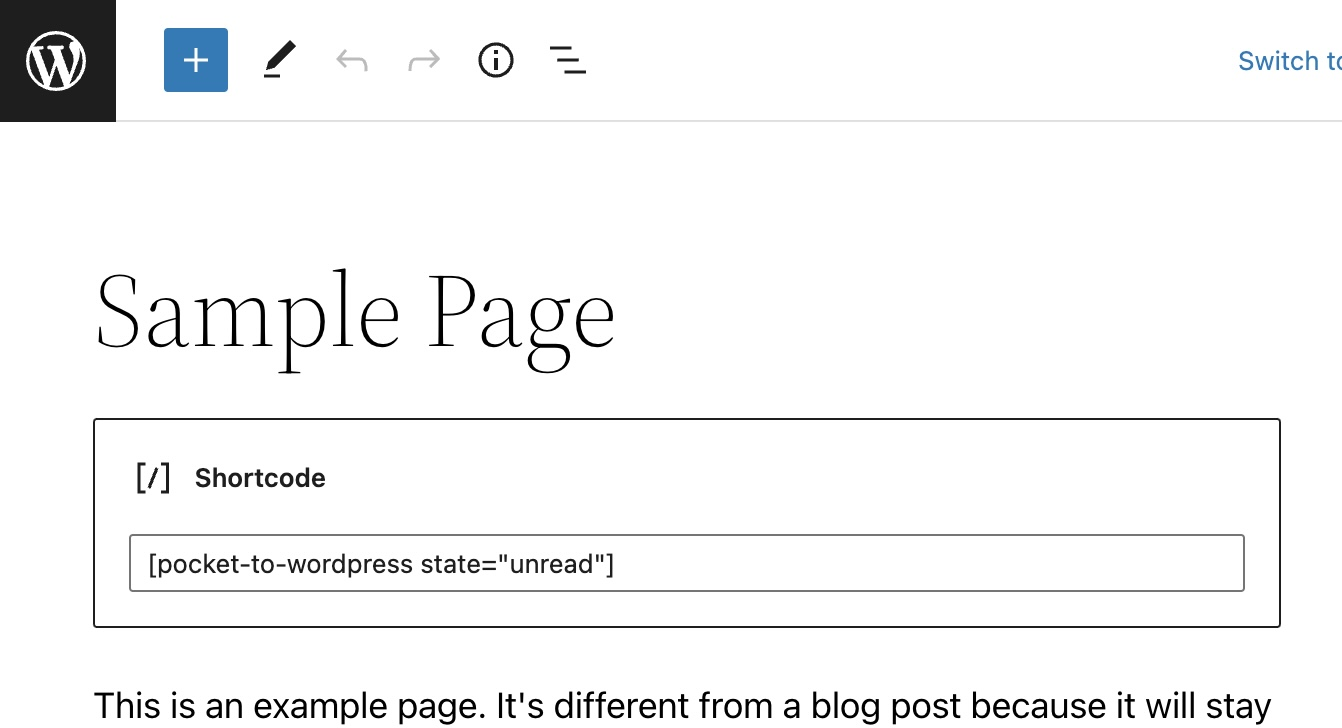
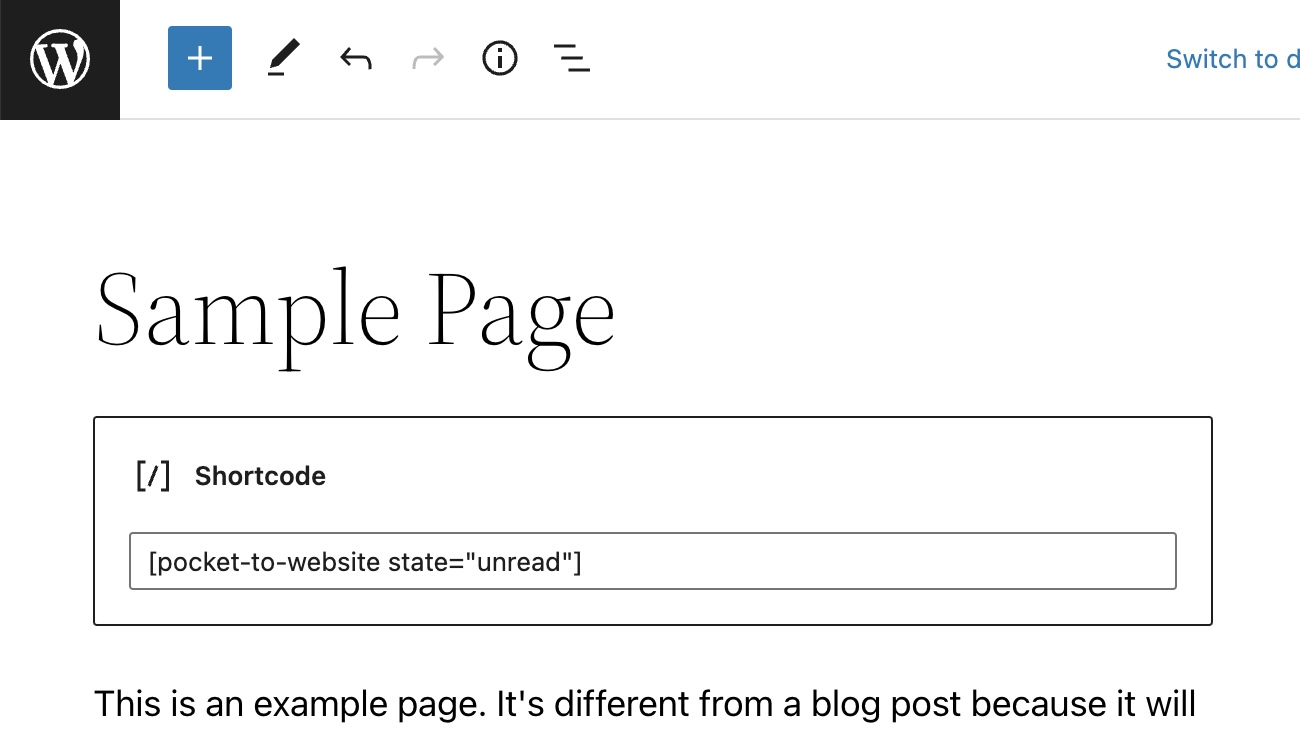
change the plugin name so it doesn't have any mention of WordPress

diff --git a/content/shortcode.php b/content/shortcode.php
@@ -1,114 +1,114 @@
 <style>.shortcode_creator_group ul { padding-left: 10px; }</style>
-<h2><?php _e('How to display a feed on your WordPress site', 'pocket-to-wordpress'); ?></h2>
-<p><?php _e(sprintf('This plugin gives you the possibility to display a list of feed via the use of %1$sshortcodes%2$s.', '<a href="https://wordpress.com/support/shortcodes/" target="_blank">', '</a>'), 'pocket-to-wordpress'); ?><br />
+<h2><?php _e('How to display a feed on your WordPress site', 'pocket-to-website'); ?></h2>
+<p><?php _e(sprintf('This plugin gives you the possibility to display a list of feed via the use of %1$sshortcodes%2$s.', '<a href="https://wordpress.com/support/shortcodes/" target="_blank">', '</a>'), 'pocket-to-website'); ?><br />
     <?php _e('', ''); ?></br />
-    <?php _e('Then paste it wherever you want in your WordPress website.', 'pocket-to-wordpress'); ?></p>
+    <?php _e('Then paste it wherever you want in your WordPress website.', 'pocket-to-website'); ?></p>
 <p><input id="shortcode_display" type="text" value="[pocket-to-wordpress]" style="width: 100%;"></p>
 
 <div class="shortcode_creator">
     <div class="shortcode_creator_group">
-        <p><strong><?php _e('State', 'pocket-to-wordpress'); ?> (<?php _e('filter', 'pocket-to-wordpress'); ?>: state)</strong></p>
+        <p><strong><?php _e('State', 'pocket-to-website'); ?> (<?php _e('filter', 'pocket-to-website'); ?>: state)</strong></p>
         <ul>
             <li>
                 <input type="radio" id="state_unread" name="state" value="unread" />
-                <label for="state_unread"><?php _e('Unread', 'pocket-to-wordpress'); ?></label>
+                <label for="state_unread"><?php _e('Unread', 'pocket-to-website'); ?></label>
             </li>
             <li>
                 <input type="radio" id="state_archive" name="state" value="archive" />
-                <label for="state_archive"><?php _e('Archive', 'pocket-to-wordpress'); ?></label>
+                <label for="state_archive"><?php _e('Archive', 'pocket-to-website'); ?></label>
             </li>
             <li>
                 <input type="radio" id="state_all" name="state" value="all" />
-                <label for="state_all"><?php _e('All', 'pocket-to-wordpress'); ?></label>
+                <label for="state_all"><?php _e('All', 'pocket-to-website'); ?></label>
             </li>
         </ul>
     </div>
 
     <div class="shortcode_creator_group">
-        <p><strong><?php _e('favorite', 'pocket-to-wordpress'); ?> (<?php _e('filter', 'pocket-to-wordpress'); ?>: favorite)</strong></p>
+        <p><strong><?php _e('favorite', 'pocket-to-website'); ?> (<?php _e('filter', 'pocket-to-website'); ?>: favorite)</strong></p>
         <ul>
             <li>
                 <input type="radio" id="favorite_0" name="favorite" value="0" />
-                <label for="favorite_0"><?php _e('Only return un-favorited items', 'pocket-to-wordpress'); ?></label>
+                <label for="favorite_0"><?php _e('Only return un-favorited items', 'pocket-to-website'); ?></label>
             </li>
             <li>
                 <input type="radio" id="favorite_1" name="favorite" value="1" />
-                <label for="favorite_1"><?php _e('Only return favorited items', 'pocket-to-wordpress'); ?></label>
+                <label for="favorite_1"><?php _e('Only return favorited items', 'pocket-to-website'); ?></label>
             </li>
         </ul>
     </div>
 
     <div class="shortcode_creator_group">
-        <p><strong><?php _e('Tag', 'pocket-to-wordpress'); ?> (<?php _e('filter', 'pocket-to-wordpress'); ?>: tag)</strong></p>
+        <p><strong><?php _e('Tag', 'pocket-to-website'); ?> (<?php _e('filter', 'pocket-to-website'); ?>: tag)</strong></p>
         <ul>
             <li>
                 <input type="radio" id="tag_tagged" name="tag"/>
-                <label for="tag_tagged"><?php _e('Only return items tagged with', 'pocket-to-wordpress'); ?> <input type="text" name="tag"></label>
+                <label for="tag_tagged"><?php _e('Only return items tagged with', 'pocket-to-website'); ?> <input type="text" name="tag"></label>
             </li>
             <li>
                 <input type="radio" id="tag_1_untagged" name="tag" value="_untagged_" />
-                <label for="tag_1_untagged"><?php _e('Only return untagged items', 'pocket-to-wordpress'); ?></label>
+                <label for="tag_1_untagged"><?php _e('Only return untagged items', 'pocket-to-website'); ?></label>
             </li>
         </ul>
     </div>
 
     <div class="shortcode_creator_group">
-        <p><strong><?php _e('Content type', 'pocket-to-wordpress'); ?> (<?php _e('filter', 'pocket-to-wordpress'); ?>: contentType)</strong></p>
+        <p><strong><?php _e('Content type', 'pocket-to-website'); ?> (<?php _e('filter', 'pocket-to-website'); ?>: contentType)</strong></p>
         <ul>
             <li>
                 <input type="radio" id="contentType_article" name="contentType" value="article" />
-                <label for="contentType_article"><?php _e('Only return articles', 'pocket-to-wordpress'); ?></label>
+                <label for="contentType_article"><?php _e('Only return articles', 'pocket-to-website'); ?></label>
             </li>
             <li>
                 <input type="radio" id="contentType_video" name="contentType" value="video" />
-                <label for="contentType_video"><?php _e('Only return videos or articles with embedded videos', 'pocket-to-wordpress'); ?></label>
+                <label for="contentType_video"><?php _e('Only return videos or articles with embedded videos', 'pocket-to-website'); ?></label>
             </li>
             <li>
                 <input type="radio" id="contentType_image" name="contentType" value="image" />
-                <label for="contentType_image"><?php _e('Only return images', 'pocket-to-wordpress'); ?></label>
+                <label for="contentType_image"><?php _e('Only return images', 'pocket-to-website'); ?></label>
             </li>
         </ul>
     </div>
 
     <div class="shortcode_creator_group">
-        <p><strong><?php _e('Sort', 'pocket-to-wordpress'); ?> (<?php _e('filter', 'pocket-to-wordpress'); ?>: sort)</strong></p>
+        <p><strong><?php _e('Sort', 'pocket-to-website'); ?> (<?php _e('filter', 'pocket-to-website'); ?>: sort)</strong></p>
         <ul>
             <li>
                 <input type="radio" id="sort_newest" name="sort" value="newest" />
-                <label for="sort_newest"><?php _e('Return items in order of newest to oldest', 'pocket-to-wordpress'); ?></label>
+                <label for="sort_newest"><?php _e('Return items in order of newest to oldest', 'pocket-to-website'); ?></label>
             </li>
             <li>
                 <input type="radio" id="sort_oldest" name="sort" value="oldest" />
-                <label for="sort_oldest"><?php _e('Return items in order of oldest to newest', 'pocket-to-wordpress'); ?></label>
+                <label for="sort_oldest"><?php _e('Return items in order of oldest to newest', 'pocket-to-website'); ?></label>
             </li>
             <li>
                 <input type="radio" id="sort_title" name="sort" value="title" />
-                <label for="sort_title"><?php _e('Return items in order of title alphabetically', 'pocket-to-wordpress'); ?></label>
+                <label for="sort_title"><?php _e('Return items in order of title alphabetically', 'pocket-to-website'); ?></label>
             </li>
             <li>
                 <input type="radio" id="sort_site" name="sort" value="site" />
-                <label for="sort_site"><?php _e('Return items in order of url alphabetically', 'pocket-to-wordpress'); ?></label>
+                <label for="sort_site"><?php _e('Return items in order of url alphabetically', 'pocket-to-website'); ?></label>
             </li>
         </ul>
     </div>
 
     <div class="shortcode_creator_group">
-        <p><strong><?php _e('Search', 'pocket-to-wordpress'); ?> (<?php _e('filter', 'pocket-to-wordpress'); ?>: search)</strong><br /><?php _e('Only return items whose title or url contain the search string', 'pocket-to-wordpress'); ?></p>
+        <p><strong><?php _e('Search', 'pocket-to-website'); ?> (<?php _e('filter', 'pocket-to-website'); ?>: search)</strong><br /><?php _e('Only return items whose title or url contain the search string', 'pocket-to-website'); ?></p>
         <input type="text" name="search">
     </div>
 
     <div class="shortcode_creator_group">
-        <p><strong><?php _e('Domain', 'pocket-to-wordpress'); ?> (<?php _e('filter', 'pocket-to-wordpress'); ?>: domain)</strong><br /><?php _e('Only return items from a particular domain', 'pocket-to-wordpress'); ?></p>
+        <p><strong><?php _e('Domain', 'pocket-to-website'); ?> (<?php _e('filter', 'pocket-to-website'); ?>: domain)</strong><br /><?php _e('Only return items from a particular domain', 'pocket-to-website'); ?></p>
         <input type="text" name="domain">
     </div>
 
     <div class="shortcode_creator_group">
-        <p><strong><?php _e('Count', 'pocket-to-wordpress'); ?> (<?php _e('filter', 'pocket-to-wordpress'); ?>: count)</strong><br /><?php _e('Only return count number of items', 'pocket-to-wordpress'); ?></p>
+        <p><strong><?php _e('Count', 'pocket-to-website'); ?> (<?php _e('filter', 'pocket-to-website'); ?>: count)</strong><br /><?php _e('Only return count number of items', 'pocket-to-website'); ?></p>
         <input type="number" name="count" step="1" min="0">
     </div>
 
     <div class="shortcode_creator_group">
-        <p><strong><?php _e('Offset', 'pocket-to-wordpress'); ?> (<?php _e('filter', 'pocket-to-wordpress'); ?>: offset)</strong><br /><?php _e('Used only with count; start returning from offset position of results', 'pocket-to-wordpress'); ?></p>
+        <p><strong><?php _e('Offset', 'pocket-to-website'); ?> (<?php _e('filter', 'pocket-to-website'); ?>: offset)</strong><br /><?php _e('Used only with count; start returning from offset position of results', 'pocket-to-website'); ?></p>
         <input type="number" name="offset" step="1" min="0">
     </div>
 </div>
@@ -133,6 +133,6 @@
             }
         });
 
-        shortcodeDisplay.value = `[pocket-to-wordpress${shortcode}]`;
+        shortcodeDisplay.value = `[pocket-to-website${shortcode}]`;
     }
 </script>

diff --git a/pocket-to-website.php b/pocket-to-website.php
@@ -1,12 +1,12 @@
 <?php
 /*
-Plugin Name: Pocket To WordPress
-Plugin URI: https://wordpress.org/plugins/pocket-to-wordpress/
+Plugin Name: Pocket To Website
+Plugin URI: https://wordpress.org/plugins/pocket-to-website/
 Description: This plugin allows you to display your Pocket list into your WordPress site
 Author: Jean-David Daviet
 Version: 1.0
 Author URI: https://jeandaviddaviet.fr
-Text Domain: pocket-to-wordpress
+Text Domain: pocket-to-website
 */
 
 namespace JDD;
@@ -61,16 +61,16 @@ class PocketToWordpress
 
         add_action('admin_menu', [$this, 'register_settings_page']);
 
-        add_shortcode('pocket-to-wordpress', [$this, 'pwt_shortcode']);
+        add_shortcode('pocket-to-website', [$this, 'pwt_shortcode']);
     }
 
     public function register_settings_page()
     {
         add_options_page(
-            'Pocket To WordPress Settings Page',
-            'Pocket To WordPress',
+            'Pocket To Website Settings Page',
+            'Pocket To Website',
             $this->capability_settings,
-            'pocket-to-wordpress',
+            'pocket-to-website',
             [$this, 'display_ptw_setting_page_callback']
         );
     }
@@ -86,7 +86,7 @@ class PocketToWordpress
             $this->api->set_access_token(null);
             $this->api->set_auth_error(null);
             // todo add notification of failure
-            wp_redirect(admin_url('options-general.php?page=pocket-to-wordpress'));
+            wp_redirect(admin_url('options-general.php?page=pocket-to-website'));
             exit;
         }
 
@@ -102,40 +102,40 @@ class PocketToWordpress
         $default_tab = null;
         $tab = isset($_GET['tab']) ? $_GET['tab'] : $default_tab;
 
-        $tab_url = admin_url('options-general.php?page=pocket-to-wordpress');
+        $tab_url = admin_url('options-general.php?page=pocket-to-website');
 
         ?>
         <div class="wrap">
 
-            <h1><?php _e('Pocket To WordPress Settings', 'pocket-to-wordpress'); ?></h1>
+            <h1><?php _e('Pocket To Website Settings', 'pocket-to-website'); ?></h1>
 
             <nav class="nav-tab-wrapper">
-                <a href="<?php echo $tab_url; ?>" class="nav-tab <?php if($tab===null):?>nav-tab-active<?php endif; ?>"><?php _e('Connection', 'pocket-to-wordpress'); ?></a>
-                <a href="<?php echo $tab_url; ?>&tab=howto" class="nav-tab <?php if($tab==='howto'):?>nav-tab-active<?php endif; ?>"><?php _e('How-to', 'pocket-to-wordpress'); ?></a>
-                <a href="<?php echo $tab_url; ?>&tab=display" class="nav-tab <?php if($tab==='display'):?>nav-tab-active<?php endif; ?>"><?php _e('Display', 'pocket-to-wordpress'); ?></a>
+                <a href="<?php echo $tab_url; ?>" class="nav-tab <?php if($tab===null):?>nav-tab-active<?php endif; ?>"><?php _e('Connection', 'pocket-to-website'); ?></a>
+                <a href="<?php echo $tab_url; ?>&tab=howto" class="nav-tab <?php if($tab==='howto'):?>nav-tab-active<?php endif; ?>"><?php _e('How-to', 'pocket-to-website'); ?></a>
+                <a href="<?php echo $tab_url; ?>&tab=display" class="nav-tab <?php if($tab==='display'):?>nav-tab-active<?php endif; ?>"><?php _e('Display', 'pocket-to-website'); ?></a>
             </nav>
 
             <div class="tab-content">
                 <?php if($tab === null): ?>
                     <form action="<?php echo admin_url('options.php'); ?>" method="post">
                         <?php
-                        do_settings_sections('pocket-to-wordpress');
+                        do_settings_sections('pocket-to-website');
                         settings_fields('ptw_section1');
                         if(!empty($this->api->get_consumer_key())):
                             ?>
                             <table class="form-table" role="presentation">
                                 <tr>
-                                    <th scope="row"><?php _e('Request Code', 'pocket-to-wordpress'); ?></th>
+                                    <th scope="row"><?php _e('Request Code', 'pocket-to-website'); ?></th>
                                     <td><p><?php echo esc_html($this->api->get_request_code()); ?></p></td>
                                 </tr>
                                 <tr>
-                                    <th scope="row"><?php _e('Access Token', 'pocket-to-wordpress'); ?></th>
+                                    <th scope="row"><?php _e('Access Token', 'pocket-to-website'); ?></th>
                                     <td><p><?php echo esc_html($this->api->get_access_token()); ?></p></td>
                                 </tr>
                             </table>
                         <?php
                         endif;
-                        submit_button(__('Save Settings', 'pocket-to-wordpress'));
+                        submit_button(__('Save Settings', 'pocket-to-website'));
                         ?>
                     </form>
 
@@ -158,18 +158,18 @@ class PocketToWordpress
 
                         <?php if(empty($this->api->get_access_token())): ?>
                             <form>
-                                <input type="submit" class="pocket-btn" value="<?php echo esc_attr(__('Login with Pocket', 'pocket-to-wordpress')); ?>">
+                                <input type="submit" class="pocket-btn" value="<?php echo esc_attr(__('Login with Pocket', 'pocket-to-website')); ?>">
                                 <input type="hidden" name="login" value="true">
-                                <input type="hidden" name="page" value="pocket-to-wordpress">
+                                <input type="hidden" name="page" value="pocket-to-website">
                             </form>
                         <?php
                         endif;
 
                         if(!empty($this->api->get_access_token())): ?>
                             <form>
-                                <input type="submit" class="pocket-btn" value="<?php echo esc_attr(__('Disconnect from Pocket', 'pocket-to-wordpress')); ?>">
+                                <input type="submit" class="pocket-btn" value="<?php echo esc_attr(__('Disconnect from Pocket', 'pocket-to-website')); ?>">
                                 <input type="hidden" name="logout" value="true">
-                                <input type="hidden" name="page" value="pocket-to-wordpress">
+                                <input type="hidden" name="page" value="pocket-to-website">
                             </form>
                         <?php
                         endif;

diff --git a/content/howto.php b/content/howto.php
@@ -1,22 +1,22 @@
-<h2><?php _e('How to get your consumer key', 'pocket-to-wordpress'); ?></h2>
-<p><?php _e(sprintf('In order to connect to Pocket from your WordPress website, you need to create an application on the %1$spocket API website%2$s.%3$sFollow the steps below to create you Pocket API application and get your %4$sconsumer key%5$s', '<a href="https://getpocket.com/developer/">', '</a>', '<br />', '<strong>', '</strong>'), 'pocket-to-wordpress'); ?>.</p>
+<h2><?php _e('How to get your consumer key', 'pocket-to-website'); ?></h2>
+<p><?php _e(sprintf('In order to connect to Pocket from your WordPress website, you need to create an application on the %1$spocket API website%2$s.%3$sFollow the steps below to create you Pocket API application and get your %4$sconsumer key%5$s', '<a href="https://getpocket.com/developer/">', '</a>', '<br />', '<strong>', '</strong>'), 'pocket-to-website'); ?>.</p>
 
-<h2><?php _e('The steps', 'pocket-to-wordpress'); ?></h2>
-<p><?php _e('First, you need to be connected to your Pocket account to create a new app.', 'pocket-to-wordpress'); ?><br />
-    <?php _e('Once connected, you can click on the big red button "Create new app".', 'pocket-to-wordpress'); ?><br />
-    <?php _e('Then, you arrive on a page asking you some details on your application.', 'pocket-to-wordpress'); ?></p>
+<h2><?php _e('The steps', 'pocket-to-website'); ?></h2>
+<p><?php _e('First, you need to be connected to your Pocket account to create a new app.', 'pocket-to-website'); ?><br />
+    <?php _e('Once connected, you can click on the big red button "Create new app".', 'pocket-to-website'); ?><br />
+    <?php _e('Then, you arrive on a page asking you some details on your application.', 'pocket-to-website'); ?></p>
 
 <ul style="list-style: disc inside;">
-    <li><?php _e(sprintf('The application Name : (eg: %1$s%2$s%3$s)', '<strong>', esc_html(get_option('blogname', site_url())),'</strong>'), 'pocket-to-wordpress'); ?></li>
-    <li><?php _e(sprintf('The application Description : (eg: %1$s%2$s%3$s)', '<strong>', esc_html(get_option('blogdescription', __( 'Just another WordPress site' ))), '</strong>'), 'pocket-to-wordpress'); ?></li>
-    <li><?php _e(sprintf('Permissions : You only need to check %1$sRetrieve%2$s', '<strong>', '</strong>'), 'pocket-to-wordpress'); ?></li>
-    <li><?php _e(sprintf('Platforms : Choose %1$sWeb%2$s.', '<strong>', '</strong>'), 'pocket-to-wordpress'); ?></li>
-    <li><?php _e(sprintf('Accept the %1$sTerms of Services%2$s.', '<strong>', '</strong>'), 'pocket-to-wordpress'); ?></li>
+    <li><?php _e(sprintf('The application Name : (eg: %1$s%2$s%3$s)', '<strong>', esc_html(get_option('blogname', site_url())),'</strong>'), 'pocket-to-website'); ?></li>
+    <li><?php _e(sprintf('The application Description : (eg: %1$s%2$s%3$s)', '<strong>', esc_html(get_option('blogdescription', __( 'Just another WordPress site' ))), '</strong>'), 'pocket-to-website'); ?></li>
+    <li><?php _e(sprintf('Permissions : You only need to check %1$sRetrieve%2$s', '<strong>', '</strong>'), 'pocket-to-website'); ?></li>
+    <li><?php _e(sprintf('Platforms : Choose %1$sWeb%2$s.', '<strong>', '</strong>'), 'pocket-to-website'); ?></li>
+    <li><?php _e(sprintf('Accept the %1$sTerms of Services%2$s.', '<strong>', '</strong>'), 'pocket-to-website'); ?></li>
 </ul>
-<p><?php _e(sprintf('Click on the %1$sCreate Application%2$s button.', '<strong>', '</strong>'), 'pocket-to-wordpress'); ?><br />
-    <?php _e('You are now redirected to the list of your applications.', 'pocket-to-wordpress'); ?><br />
-    <?php _e(sprintf('All you have to do now is copy the consumer key and paste it it the %1$sConnection%2$s tab of this plugin.', '<a href="' . admin_url('options-general.php?page=pocket-to-wordpress') . '">', '</a>'), 'pocket-to-wordpress'); ?></p>
+<p><?php _e(sprintf('Click on the %1$sCreate Application%2$s button.', '<strong>', '</strong>'), 'pocket-to-website'); ?><br />
+    <?php _e('You are now redirected to the list of your applications.', 'pocket-to-website'); ?><br />
+    <?php _e(sprintf('All you have to do now is copy the consumer key and paste it it the %1$sConnection%2$s tab of this plugin.', '<a href="' . admin_url('options-general.php?page=pocket-to-website') . '">', '</a>'), 'pocket-to-website'); ?></p>
 
-<h2><?php _e('Screenshots of an example application', 'pocket-to-wordpress'); ?></h2>
+<h2><?php _e('Screenshots of an example application', 'pocket-to-website'); ?></h2>
 <p><img src="<?php echo plugin_dir_url(__FILE__) . '/img/howto.jpg'; ?>" alt="screenshot of how to create a pocket application" width="600"></p>
 <p><img src="<?php echo plugin_dir_url(__FILE__) . '/img/howto2.jpg'; ?>" alt="screenshot of the list of pocket applications" width="600"></p>

diff --git a/callback.php b/callback.php
@@ -42,7 +42,7 @@ class Callback
             $this->handle_success($response);
         }
 
-        wp_redirect(admin_url('options-general.php?page=pocket-to-wordpress'));
+        wp_redirect(admin_url('options-general.php?page=pocket-to-website'));
         exit;
     }
 
@@ -55,19 +55,19 @@ class Callback
 
     private function handle_error($status)
     {
-        $error_message = __('Something wrong happened', 'pocket-to-wordpress');
+        $error_message = __('Something wrong happened', 'pocket-to-website');
         // user denied access
         if($status === 400){
-            $error_message = __('Invalid request, please make sure you follow the documentation for proper syntax', 'pocket-to-wordpress');
+            $error_message = __('Invalid request, please make sure you follow the documentation for proper syntax', 'pocket-to-website');
         }
         if($status === 401){
-            $error_message = __('Problem authenticating the user', 'pocket-to-wordpress');
+            $error_message = __('Problem authenticating the user', 'pocket-to-website');
         }
         if($status === 403){
-            $error_message = __('User was authenticated, but access denied due to lack of permission or rate limiting', 'pocket-to-wordpress');
+            $error_message = __('User was authenticated, but access denied due to lack of permission or rate limiting', 'pocket-to-website');
         }
         if($status === 503){
-            $error_message = __('Pocket\'s sync server is down for scheduled maintenance.', 'pocket-to-wordpress');
+            $error_message = __('Pocket\'s sync server is down for scheduled maintenance.', 'pocket-to-website');
         }
         $this->api->set_auth_error([
             'status' => $status,

diff --git a/classes/Settings.php b/classes/Settings.php
@@ -18,14 +18,14 @@ class Settings
             'ptw_section1',
             '',
             '__return_false',
-            'pocket-to-wordpress'
+            'pocket-to-website'
         );
 
         add_settings_field(
             'ptw_consumer_key',
-            __('Consumer Key', 'pocket-to-wordpress'),
+            __('Consumer Key', 'pocket-to-website'),
             [$this, 'ptw_consumer_key'],
-            'pocket-to-wordpress',
+            'pocket-to-website',
             'ptw_section1'
         );
         register_setting('ptw_section1', 'ptw_consumer_key');
